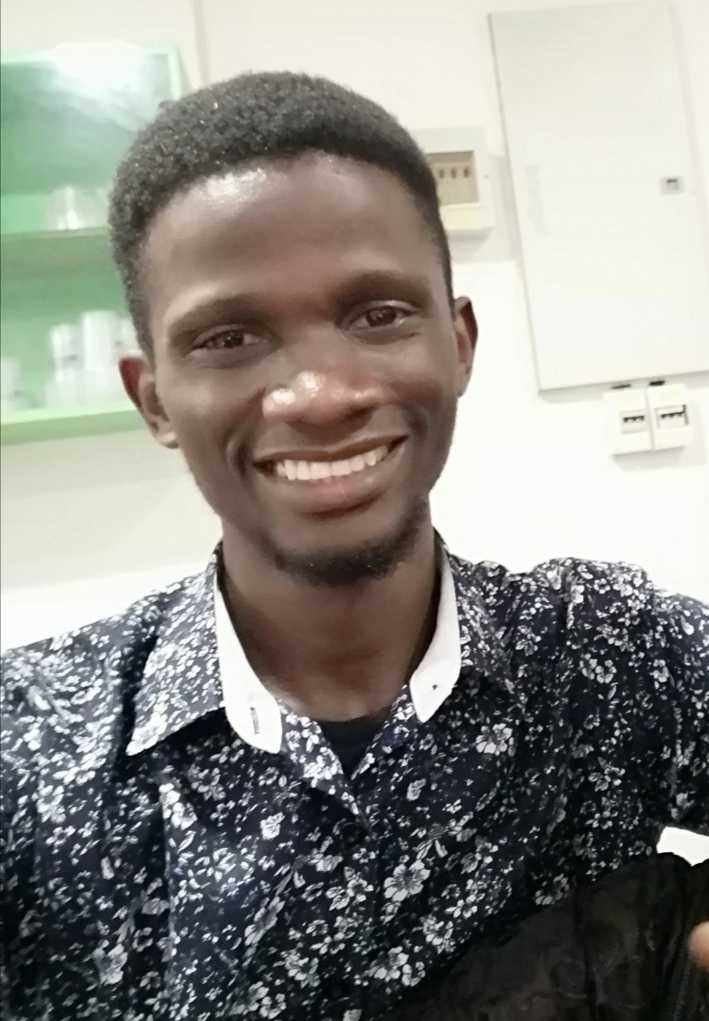
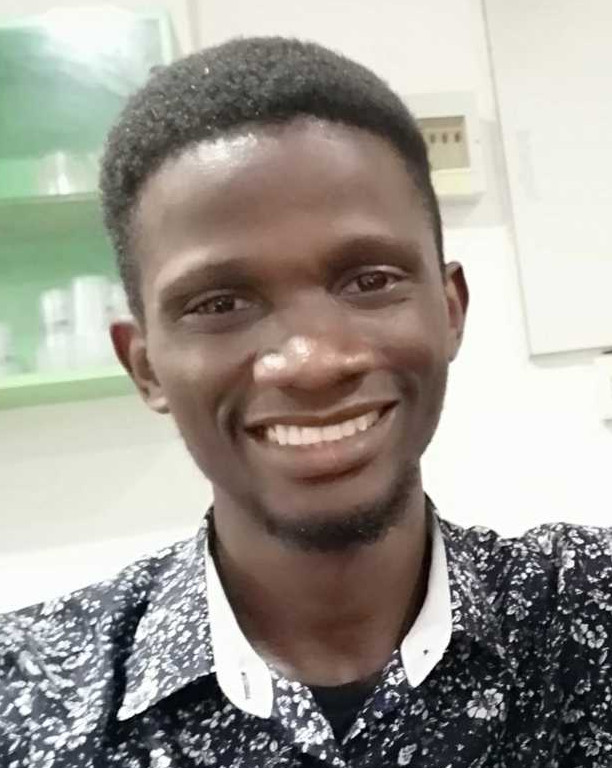
Added Oluwajoba Bello's photo

diff --git a/aboutUs.html b/aboutUs.html
@@ -118,6 +118,9 @@
 
         <div class="bio-container container">
                 <h2>Web React</h2>
+                <div class="img-container">
+                        <img src="img/bioPics/Oluwajoba_Bello.jpg" alt="Oluwajoba Bello" />
+                    </div>
                 <h3>Oluwajoba Bello</h3>
                 <div class="bio-links">
                     <a href="https://www.linkedin.com/in/oluwajoba-bello-b00a8b130/" target="_blank"><i class="fab fa-linkedin"></i></a>
